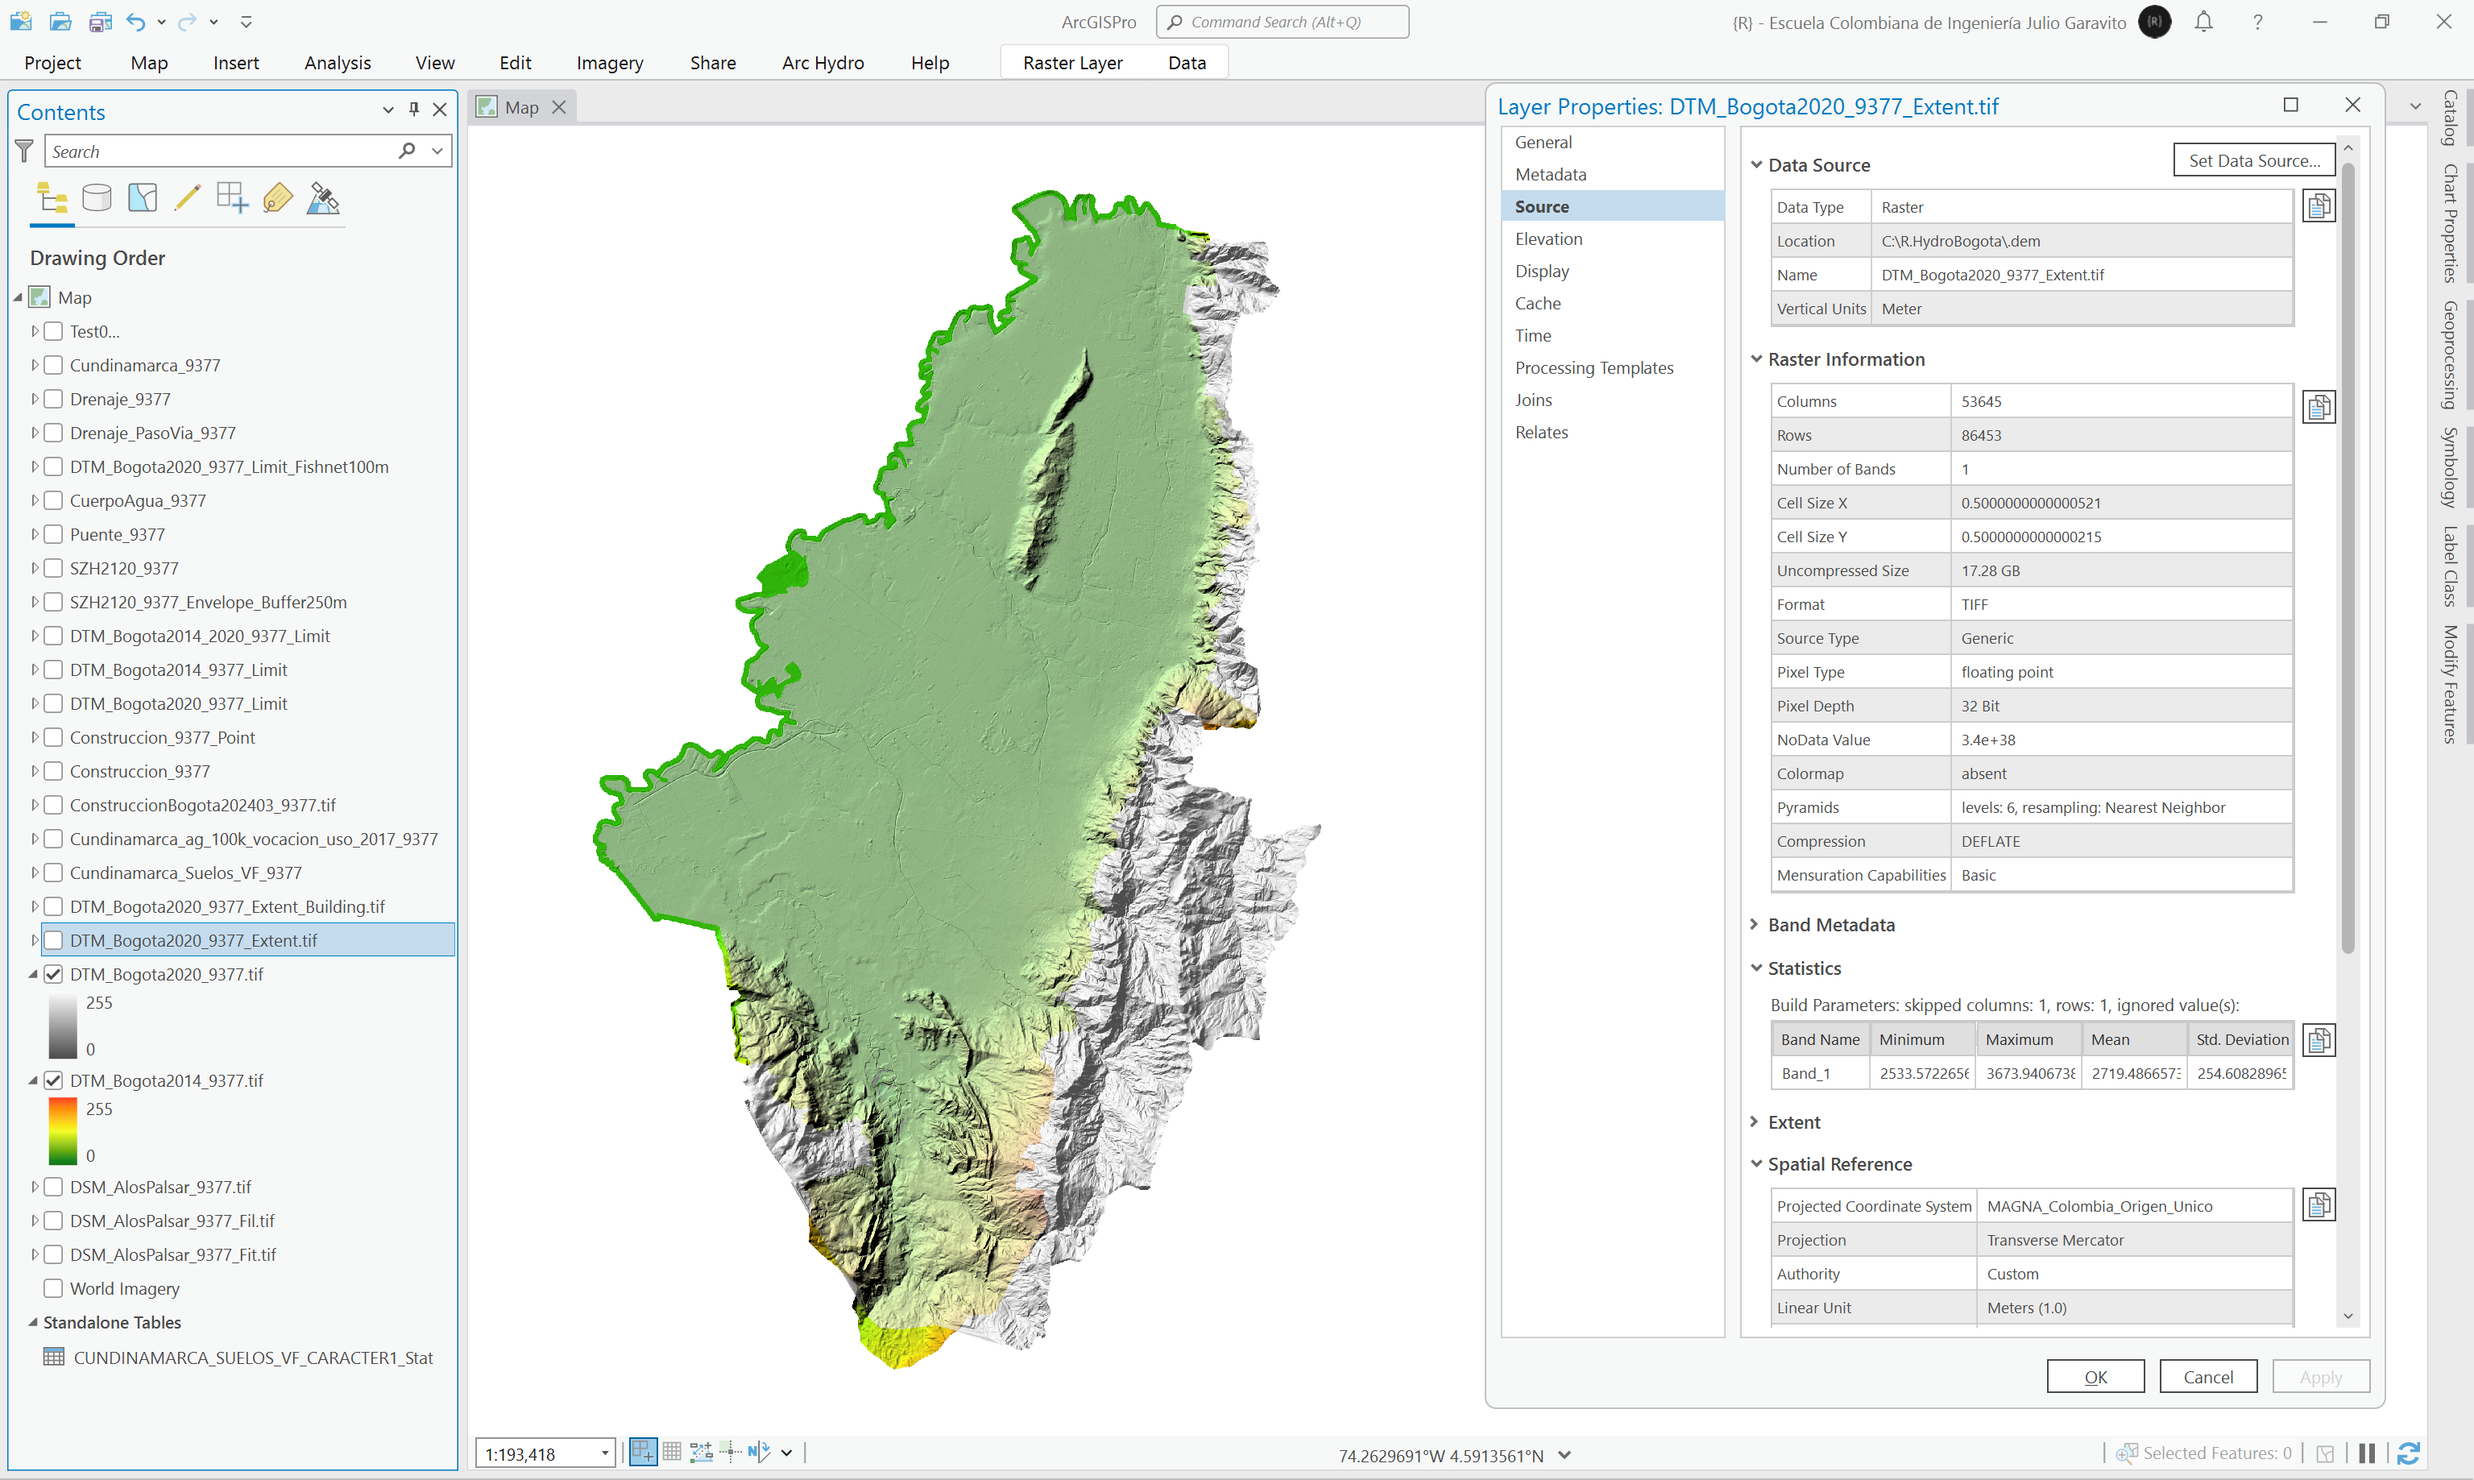
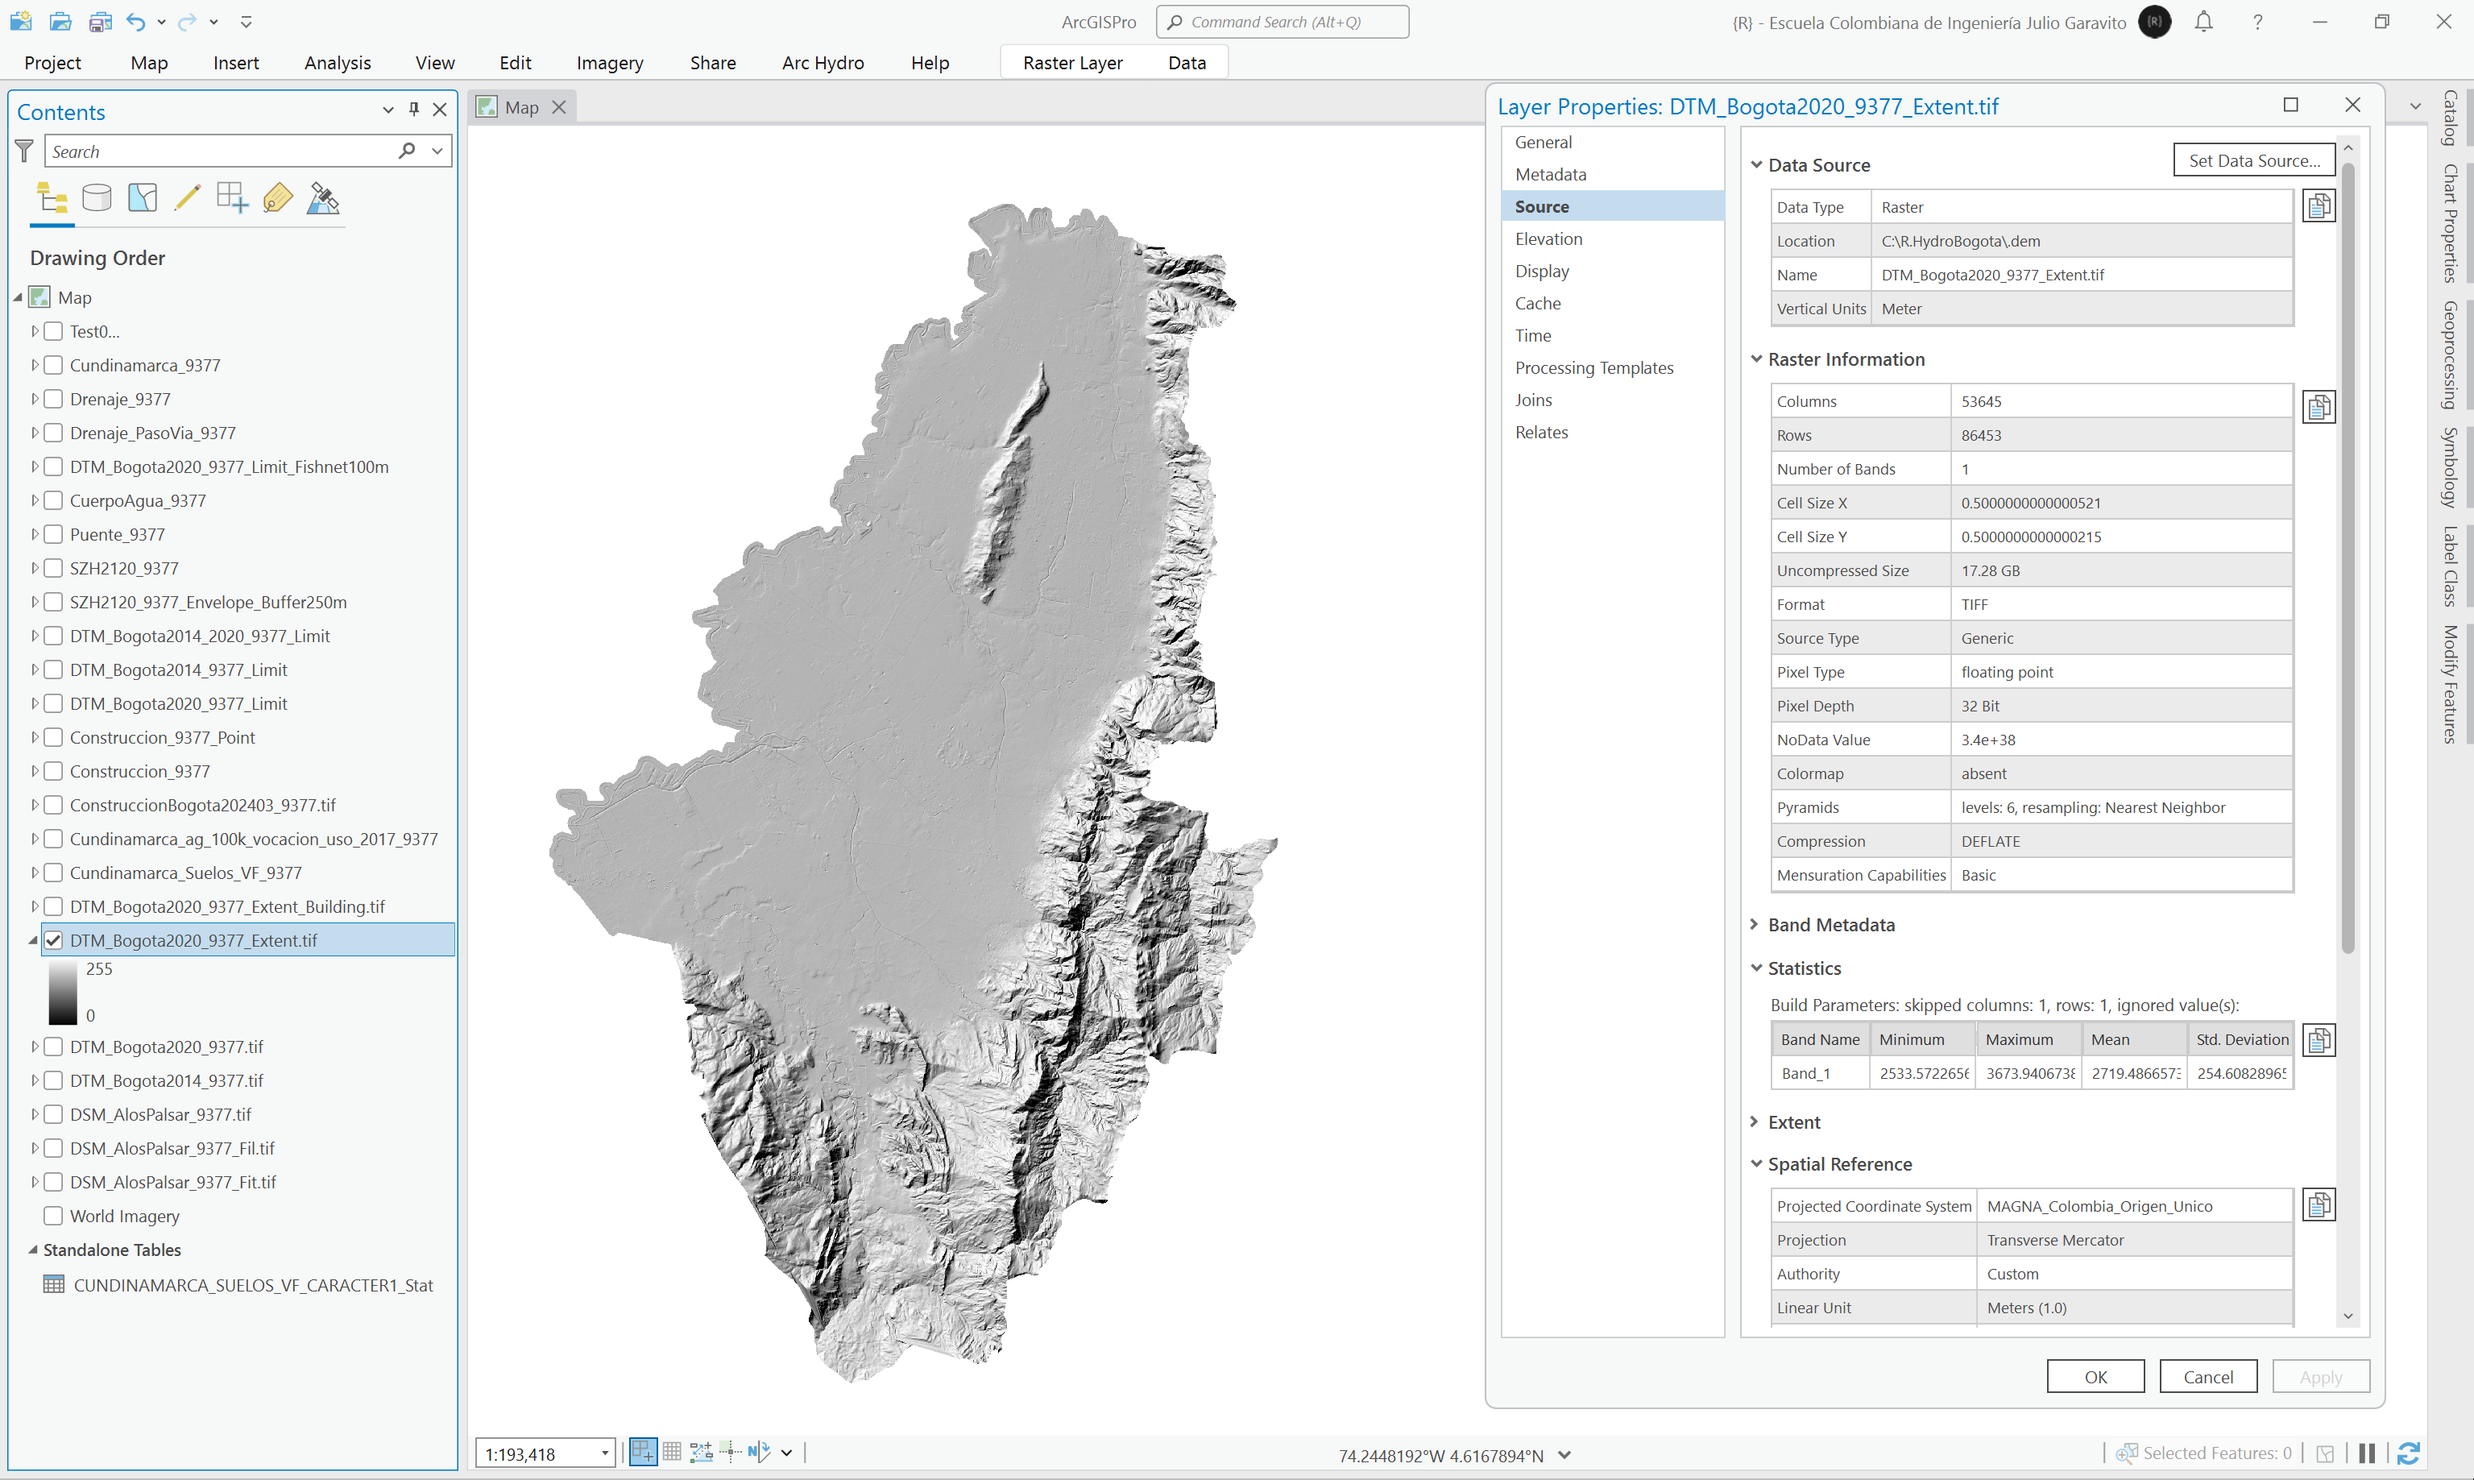
General update.

diff --git a/.data/Readme.md b/.data/Readme.md
@@ -52,7 +52,7 @@ Los Levantamientos Generales de Suelos de los departamentos del Territorio Colom
 
 **Autor**: [[Datos Abiertos IDE Bogotá](https://ideca.gov.co/), Unidad Administrativa Especial de Catastro Distrital, Ideca: Infraestructura de Datos Espaciales para el Distrito Capital. Dirección: Av. Carrera 30 No. 25 - 90,
 
-:open_file_folder: Archivo grillado: [DTM_Bogota2014_4326.rar](DTM_Bogota2014_4326.rar)
+:open_file_folder: Ráster: [DTM_Bogota2014_4326.rar](DTM_Bogota2014_4326.rar)
 
 Representación simplificada de la realidad con los datos de altura en terrenos de la ciudad de Bogotá para el año 2014. Esta información puede ser procesada con el fin de obtener el relieve de la capital.
 
@@ -69,7 +69,7 @@ Representación simplificada de la realidad con los datos de altura en terrenos 
 
 **Autor**: [Datos Abiertos IDE Bogotá](https://ideca.gov.co/), Unidad Administrativa Especial de Catastro Distrital, Ideca: Infraestructura de Datos Espaciales para el Distrito Capital. Dirección: Av. Carrera 30 No. 25 - 90, Torre B Piso 2
 
-:open_file_folder: Release grillado DTM_Bogota_2020_4326.rar comprimido en 3 partes de 2GB: [DTM_Bogota2020_4326_v1.0.0](https://github.com/rcfdtools/R.HydroBogota/releases/tag/DTM_Bogota2020_v1.0.0)
+:open_file_folder: Ráster DTM_Bogota_2020_4326.rar comprimido en 3 partes de 2GB: [DTM_Bogota2020_4326_v1.0.0](https://github.com/rcfdtools/R.HydroBogota/releases/tag/DTM_Bogota2020_v1.0.0)
 
 Representación simplificada de la realidad con los datos de altura en terrenos de la ciudad de Bogotá para el año 2014. Esta información puede ser procesada con el fin de obtener el relieve de la capital.
 
@@ -87,7 +87,7 @@ Representación simplificada de la realidad con los datos de altura en terrenos 
 
 **Autor**: [The National Aeronautics and Space Administration](https://www.nasa.gov/)
 
-:open_file_folder: Release grillado DSM_AlosPalsar_9377.rar comprimido en 2 partes de 96MB: [P1](DSM_AlosPalsar_9377.part1.rar), [P2](DSM_AlosPalsar_9377.part2.rar)
+:open_file_folder: Ráster DSM_AlosPalsar_9377.rar comprimido en 2 partes de 96MB: [P1](DSM_AlosPalsar_9377.part1.rar), [P2](DSM_AlosPalsar_9377.part2.rar)
 
 * Resolución: 12.5 metros
 * Fuente: https://www.earthdata.nasa.gov/ (ALOS_PALSAR_RTC_HIGH_RES)
@@ -184,7 +184,7 @@ Estructura que se construye principalmente en obstáculos naturales como ríos, 
 
 ## Subzonas hidrográficas IDEAM
 
-**Aplicación en esta investigación**: delimitación cuenca Río Bogotá correspondiente a la subzona hidrográfica 2120, utilizada como máscara de recorte de grillas y vectores.
+**Aplicación en esta investigación**: delimitación cuenca Río Bogotá correspondiente a la subzona hidrográfica 2120, utilizada como máscara de recorte de rásters y vectores.
 
 **Autor**: [Instituto de Hidrología, Meteorología y Estudios Ambientales - IDEAM de Colombia](http://www.ideam.gov.co/)
 

diff --git a/.dem/Readme.md b/.dem/Readme.md
@@ -13,16 +13,20 @@ Esta carpeta contiene los modelos digitales de elevación DEM (DTM, DSM, Híbrid
 
 A partir del modelo digital de terreno Lidar Bogotá 2014 (5m) que incluye información digital sobre el corredor completo del Río Bogotá en la zona perimetral de la ciudad y el modelo digital de terreno Lidar Bogotá 2020 (0.5m) que solo presenta información hasta la línea central del cauce del Río Bogotá, se ha generado el modelo extendido Lidar 2020 en resolución 0.5m.
 
-:open_file_folder: Archivo local: [DTM_Bogota2014_9377.tif](DTM_Bogota2014_9377.rar)  
-:open_file_folder: Release: [DTM_Bogota2020_9377.tif](https://github.com/rcfdtools/R.HydroBogota/releases/tag/DTM_Bogota2020_v1.0.0)  
-:open_file_folder: Release: [DTM_Bogota2020_9377_Extent.tif](DTM_Bogota2020_9377_Extent.rar)
+:open_file_folder: Ráster: [DTM_Bogota2014_9377.tif](DTM_Bogota2014_9377.rar)  
+:open_file_folder: Ráster: [DTM_Bogota2020_9377.tif](https://github.com/rcfdtools/R.HydroBogota/releases/tag/DTM_Bogota2020_v1.0.0)  
+:open_file_folder: Ráster: [DTM_Bogota2020_9377_Extent.tif](https://github.com/rcfdtools/R.HydroBogota/releases/tag/DTM_Bogota2020_Extent_v1.0.0)
 
 En la siguiente imagen se presenta en color el cubrimiento del DTM Lidar 2014, y en escala de grises el cubrimiento del DTM Lidar 2020 de Bogotá D.C., en la zona occidental se puede observar en color resaltado las localizaciones que no han sido incluídas en el Lidar 2020, y en la zona oriental las nuevas incorporaciones del modelo 2020.
+
+![R.HydroBogota](../.graph/DTM_Bogota2014_2020_9377_Extent.png)
+
+En la siguiente imagen se presenta la grilla extendida
 
 ![R.HydroBogota](../.graph/DTM_Bogota2020_9377_Extent.png)
 
 **Geo-procesos ArcGIS Pro**  
-* Data Management Tools / Raster / Mosaic To New Raster: ordenamiento superior Lidar 2020 e inferior Lidar 2014.
+* Data Management Tools / Raster / Mosaic To New Raster: ordenamiento inferior Lidar 2014 y superior Lidar 2020.
 
 
 
